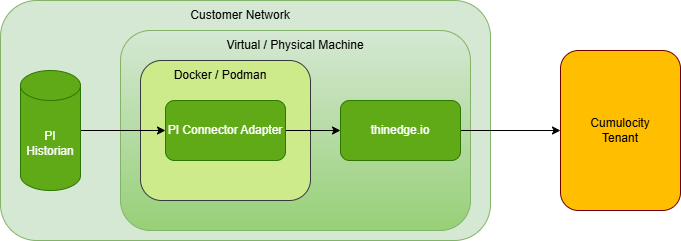
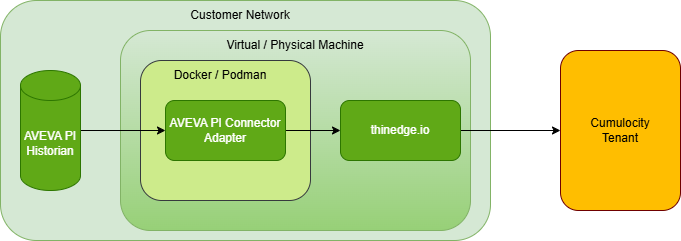
addressed diagram changes as well as prebuild releases

Changed region(s): [[0.2467, 0.4938, 0.4317, 0.61], [0.0308, 0.5228, 0.1233, 0.5809]]

diff --git a/README.md b/README.md
@@ -41,7 +41,7 @@ The following configuration files must be uploaded to the Cumulocity tenant for 
     ]
 Upload the above configuration files into Cumulocity-> Configuration Management tab, like below.
 
-![alt text](image-1.png)
+![Configuration Screenshot](configurations.png)
 ### Configuration via thin-edge
 
 Update your `tedge-configuration-plugin` to include the configuration files uploaded to Cumulocity Configuration Management.
@@ -74,8 +74,12 @@ user = "tedge"
 group = "tedge"
 mode = 0o644
 ```
-First, push the `tedge-configuration-plugin` configuration file from Cumulocity Device Management under the Configuration tab of the thin-edge device.
-After that, push the remaining configuration files such as `pi_config` and `pi_datapoints`.
+1. Push `tedge-configuration-plugin` configuration file first.
+2. Then push:
+   - `pi_config`
+   - `pi_datapoints`
+
+⚠ The configuration plugin must be applied before deploying dependent configuration files.
 
 
 ## Prerequisites
@@ -122,7 +126,18 @@ git clone https://github.com/Cumulocity-IoT/thin-edge-aveva-pi-connector.git
             Dockerfile \
             requirements.txt
 ```
-## Deployment Instructions
+## Deploy Using Prebuilt Release
+
+1. Download the latest release from:
+   [thin-edge-aveva-pi-connector/releases](https://github.com/Cumulocity-IoT/thin-edge-aveva-pi-connector/releases)
+
+2. Unzip the package:
+   `unzip pi_connector_<version>.zip`
+
+3. Start the service:
+   `docker compose up -d`
+
+## production deployment via Cumulocity
 
 ### 1. Upload the Zipped Archive
 
@@ -137,6 +152,7 @@ git clone https://github.com/Cumulocity-IoT/thin-edge-aveva-pi-connector.git
 - Select the uploaded software package and version
 
 The container will be deployed and started automatically on the thin-edge VM.
+
 
 ## MIT License
 
